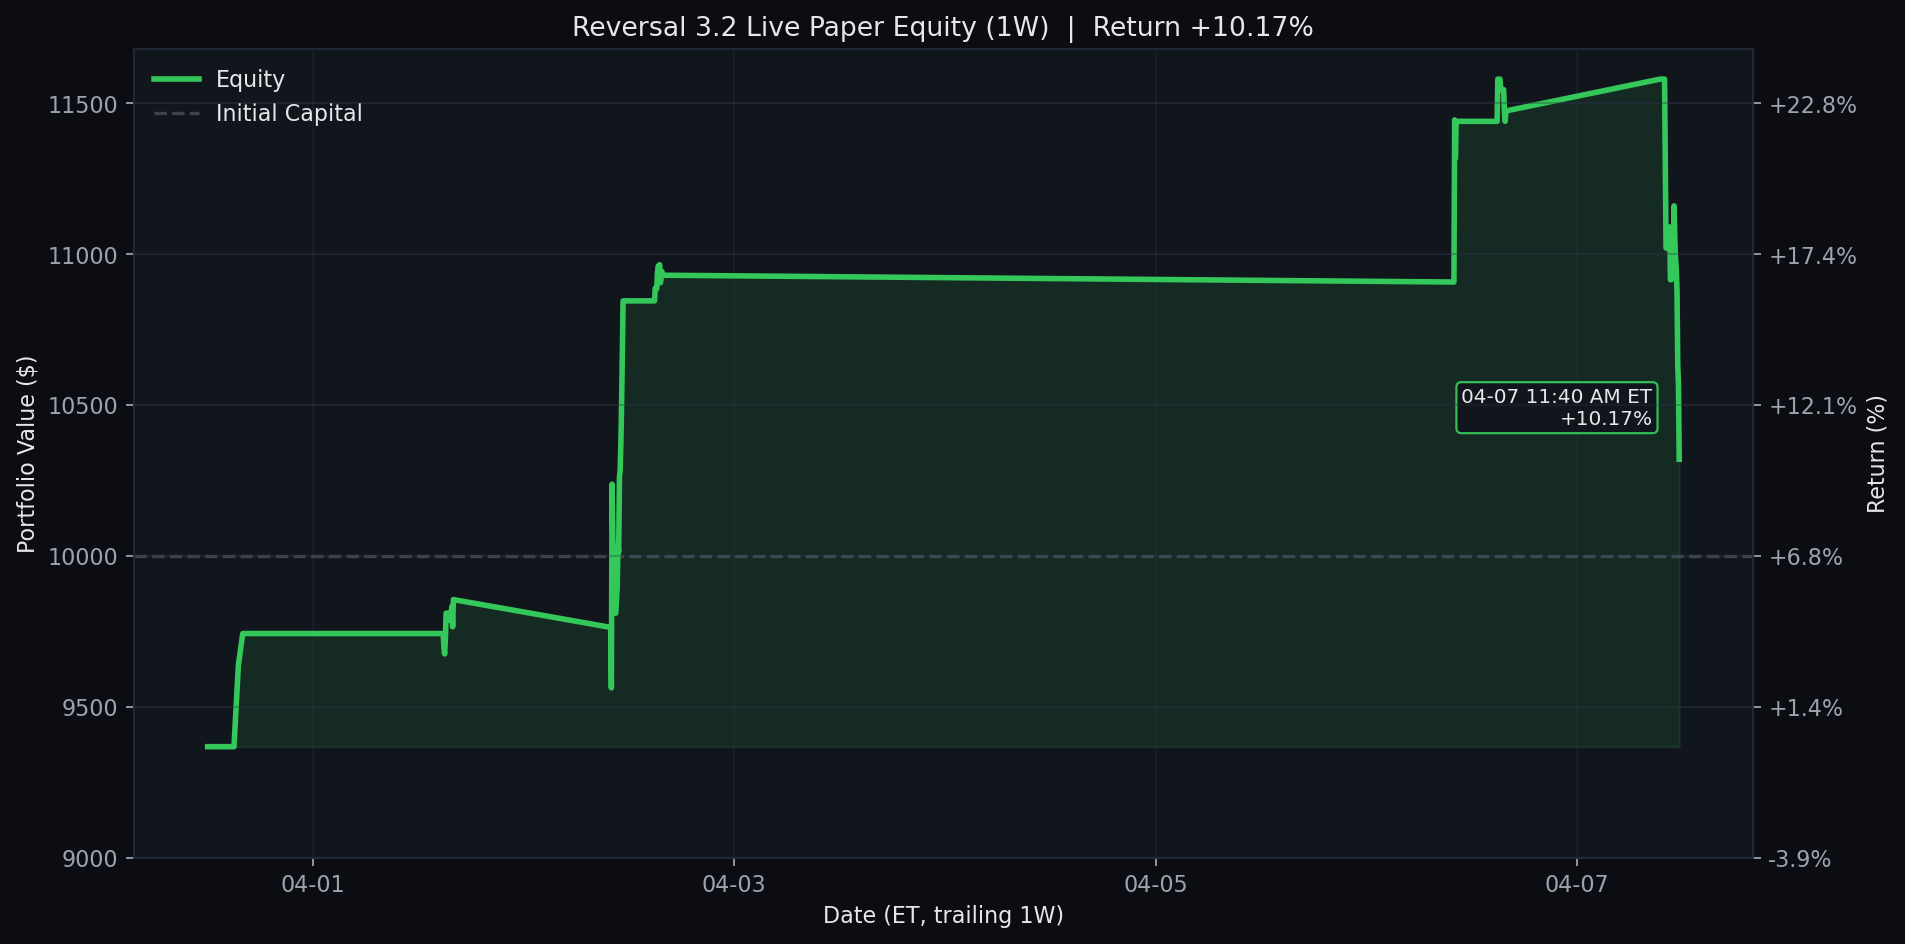
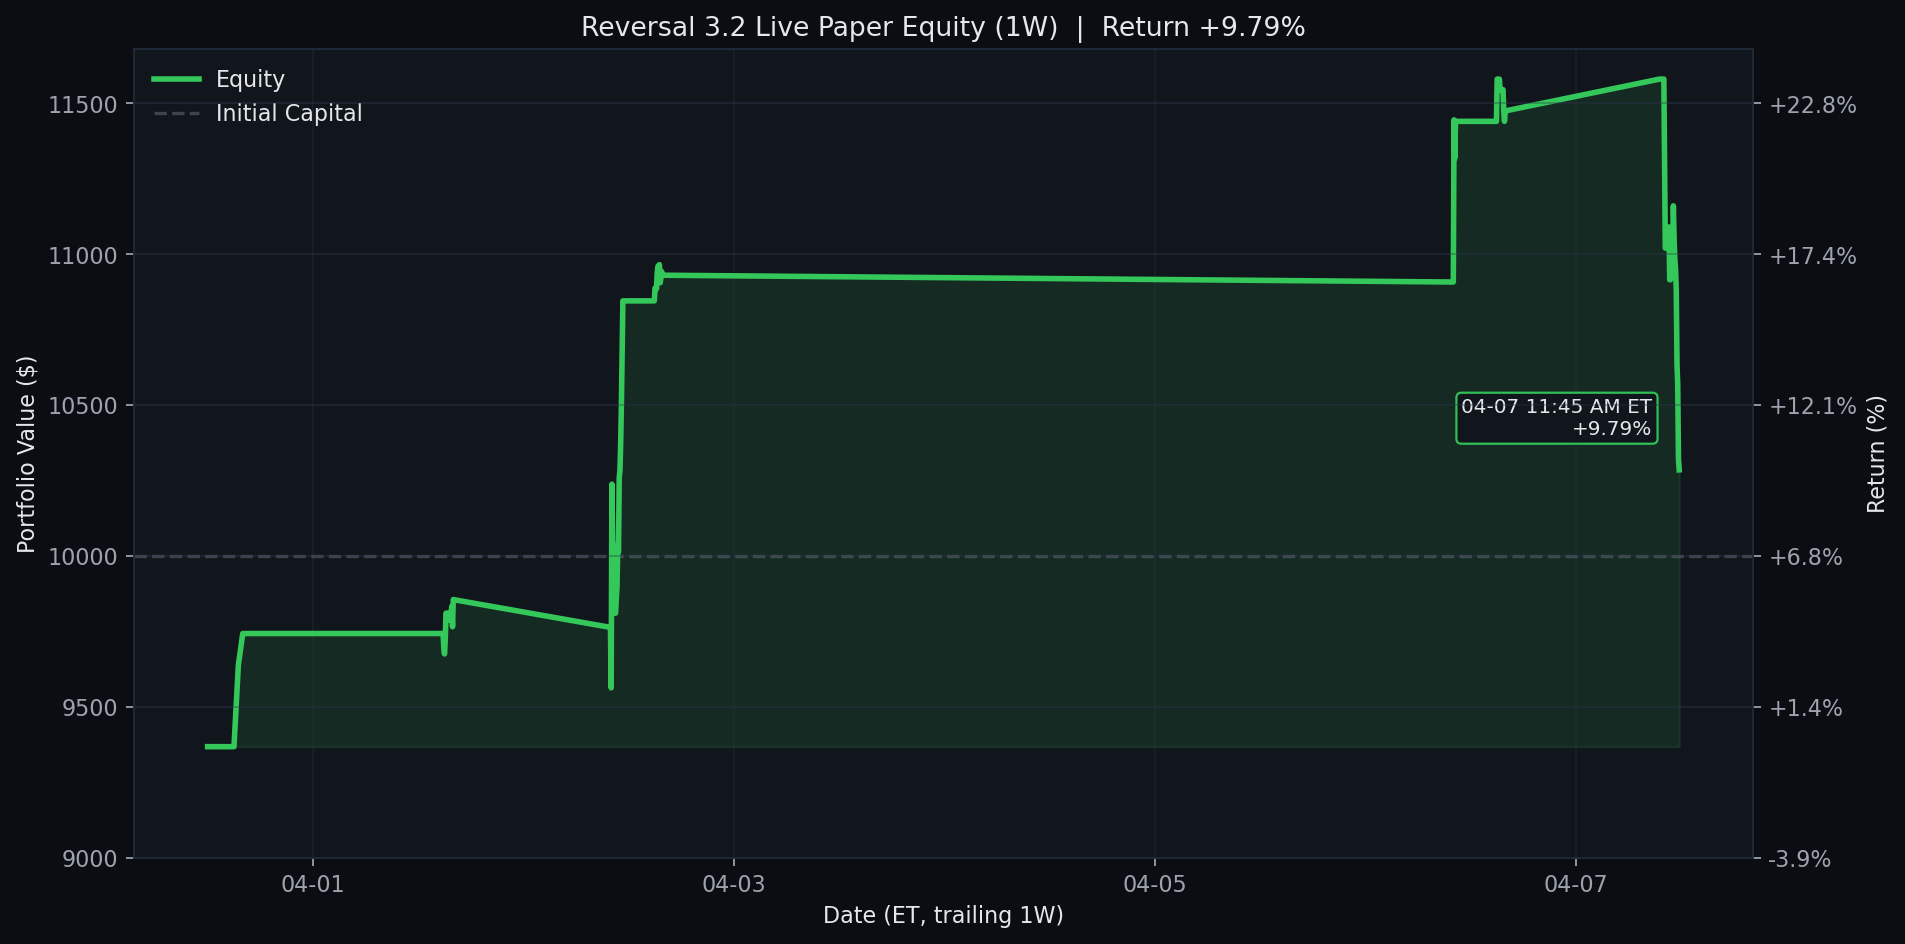
Update Reversal 3.2 live paper test 2026-04-07 11:45 ET

diff --git a/results/reversal_3_2_live/README.md b/results/reversal_3_2_live/README.md
@@ -1,7 +1,7 @@
 # Reversal 3.2 Live Paper Test
 
-Last updated (ET): `2026-04-07 11:40:05 EDT`
-Last processed slot: `manage_1130`
+Last updated (ET): `2026-04-07 11:45:04 EDT`
+Last processed slot: `manual_refresh`
 
 ## Active Configuration
 
@@ -20,16 +20,16 @@ Last processed slot: `manage_1130`
 ## Portfolio Snapshot
 
 - Cash: `$6,260.00`
-- Equity: `$10,320.00`
+- Equity: `$10,285.00`
 - Realized PnL: `$1,440.00`
-- Unrealized PnL: `$-1,120.00`
+- Unrealized PnL: `$-1,155.00`
 - Open positions: `1`
 
 ## Open Positions
 
 ```text
 ticker    contract_symbol entry_trade_date  business_days_held  contracts  cash_spent  current_position_value  entry_option_price  current_option_price  entry_spot  current_spot  unrealized_pnl  unrealized_return_pct  success_rate  matched_signals  current_drop_pct  entry_iv_pct  current_iv_pct  rolling_sigma_20d_pct
-   HON HON260515C00230000       2026-04-06                   1          7      5180.0                  4060.0                 7.4                   5.8      227.61        223.04         -1120.0                 -21.62         100.0               20               0.8         28.89           31.02                  20.57
+   HON HON260515C00230000       2026-04-06                   1          7      5180.0                  4025.0                 7.4                  5.75      227.61        223.03         -1155.0                  -22.3         100.0               20               0.8         28.89           30.69                  20.57
 ```
 
 ## Today's Closed Trades (2026-04-07)
@@ -40,18 +40,18 @@ _None_
 
 ```text
 ticker  success_rate_%  matched_signals  current_drop_%  target_rebound_$  target_price  rolling_sigma_20d_%  call_candidate
-  MRVL           96.00               25            2.31              1.77        108.75                70.84            True
-  REGN           95.00               20            1.72              9.19        759.10                25.24            True
-  SBUX           93.55               31            0.82              0.54         94.55                40.32            True
-  NVDA           91.67               24            1.56              1.95        176.81                33.70            True
-  MPWR           91.43               35            1.00              8.25       1176.50                51.99            True
-  UPRO           90.91               22            2.69              1.89         99.93                53.86            True
+  MRVL           96.00               25            2.39              1.83        108.73                70.84            True
+  REGN           95.00               20            1.64              8.74        759.29                25.24            True
+  SBUX           93.55               31            0.84              0.56         94.54                40.32            True
+  NVDA           91.67               24            1.54              1.92        176.82                33.70            True
+  MPWR           91.18               34            1.14              9.44       1175.99                51.99            True
   GILD           90.91               11            1.51              1.48        139.49                20.18            True
-  ORLY           90.24               41            0.56              0.36         91.97                23.11            True
-  CDNS           90.00               40            1.12              2.19        278.45                25.26            True
-  COST           88.24               34            0.55              3.95       1016.86                13.04            True
-  PCAR           87.88               33            0.88              0.73        118.01                21.97            True
-   LIN           87.50               16            0.96              3.34        498.04                19.02            True
+  CDNS           90.24               41            1.06              2.06        278.51                25.26            True
+  UPRO           90.00               20            2.84              2.00         99.88                53.86            True
+  ORLY           88.57               35            0.72              0.46         91.93                23.11            True
+  PCAR           87.10               31            1.00              0.83        117.96                21.97            True
+  ASML           86.67               30            1.21             11.08       1299.26                47.16            True
+  CTAS           86.67               30            0.78              0.94        171.29                28.73            True
 ```
 
 ## Recent Events
@@ -77,20 +77,20 @@ Each chart is generated from the same live equity series with no-lookahead marks
 <details>
 <summary><strong>1D</strong></summary>
 
-![Reversal 3.2 Live Equity 1D](../../assets/reversal_3_2_live_equity_1d.png?v=20260407114005)
+![Reversal 3.2 Live Equity 1D](../../assets/reversal_3_2_live_equity_1d.png?v=20260407114504)
 
 </details>
 
 <details open>
 <summary><strong>1W</strong></summary>
 
-![Reversal 3.2 Live Equity 1W](../../assets/reversal_3_2_live_equity.png?v=20260407114005)
+![Reversal 3.2 Live Equity 1W](../../assets/reversal_3_2_live_equity.png?v=20260407114504)
 
 </details>
 
 <details>
 <summary><strong>1M</strong></summary>
 
-![Reversal 3.2 Live Equity 1M](../../assets/reversal_3_2_live_equity_1m.png?v=20260407114005)
+![Reversal 3.2 Live Equity 1M](../../assets/reversal_3_2_live_equity_1m.png?v=20260407114504)
 
 </details>

diff --git a/README.md b/README.md
@@ -3,10 +3,10 @@
 <!-- reversal-3.2-live:start -->
 ## Reversal 3.2 Live Paper Test
 
-- Last updated (ET): `2026-04-07 11:40:05 EDT`
-- Equity: `$10,320.00` | Realized: `$1,440.00` | Unrealized: `$-1,120.00` | Open positions: `1`
+- Last updated (ET): `2026-04-07 11:45:04 EDT`
+- Equity: `$10,285.00` | Realized: `$1,440.00` | Unrealized: `$-1,155.00` | Open positions: `1`
 - Today closed trades: `0`
-- Current slot: `manage_1130`
+- Current slot: `manual_refresh`
 - Universe: `qqq_plus_leverage_etfs`
 - Chart windows: `1D / 1W / 1M` (default open panel: `1W`)
 
@@ -14,27 +14,27 @@
 
 ```text
 ticker    contract_symbol  contracts  cash_spent  current_position_value  current_option_price  unrealized_pnl  unrealized_return_pct  business_days_held
-   HON HON260515C00230000          7      5180.0                  4060.0                   5.8         -1120.0                 -21.62                   1
+   HON HON260515C00230000          7      5180.0                  4025.0                  5.75         -1155.0                  -22.3                   1
 ```
 
 <details>
 <summary><strong>1D</strong></summary>
 
-![Reversal 3.2 Live Equity 1D](assets/reversal_3_2_live_equity_1d.png?v=20260407114005)
+![Reversal 3.2 Live Equity 1D](assets/reversal_3_2_live_equity_1d.png?v=20260407114504)
 
 </details>
 
 <details open>
 <summary><strong>1W</strong></summary>
 
-![Reversal 3.2 Live Equity 1W](assets/reversal_3_2_live_equity.png?v=20260407114005)
+![Reversal 3.2 Live Equity 1W](assets/reversal_3_2_live_equity.png?v=20260407114504)
 
 </details>
 
 <details>
 <summary><strong>1M</strong></summary>
 
-![Reversal 3.2 Live Equity 1M](assets/reversal_3_2_live_equity_1m.png?v=20260407114005)
+![Reversal 3.2 Live Equity 1M](assets/reversal_3_2_live_equity_1m.png?v=20260407114504)
 
 </details>
 
